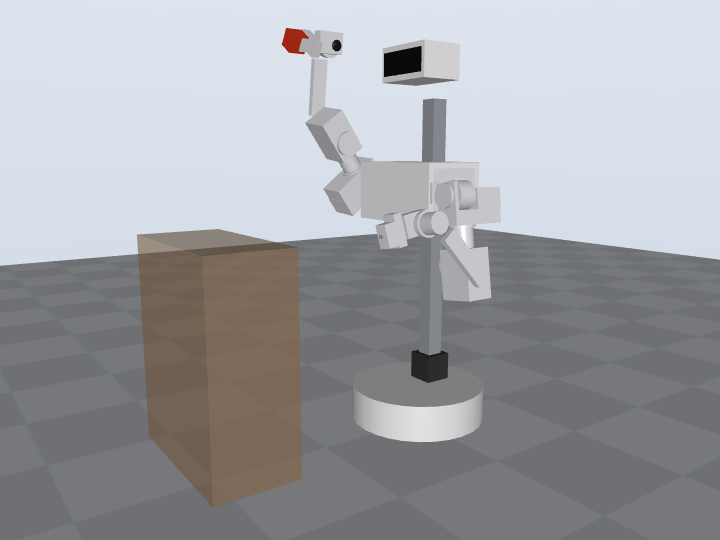
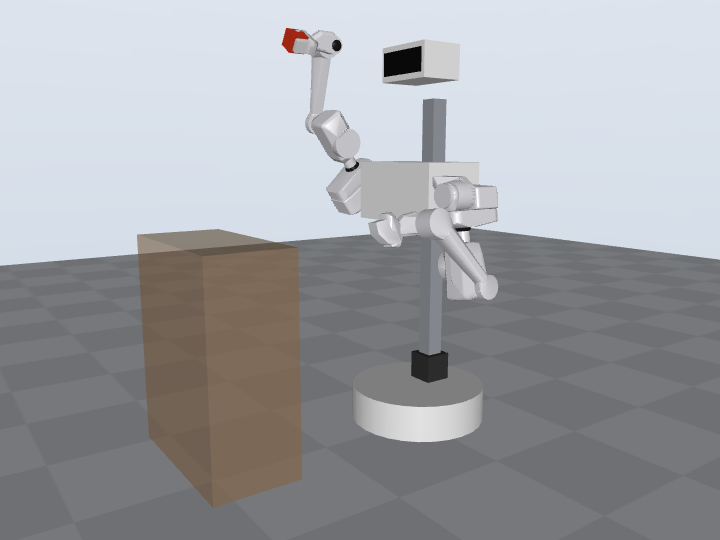
Merge W21b (skirt pins, CAD collision hulls, stow 553 mm); BOM TPU line; log
Claude-Session: https://claude.ai/code/session_01RwSoTh3JZTTiPE9Ryxfm6D

diff --git a/rnd/bom.py b/rnd/bom.py
@@ -102,7 +102,7 @@ def items(d=BASELINE, timer=None):
     A("Compute & sensors", "IMU (BNO085) + optical-flow (PAA5100JE)", 1, 55.0, "components.yaml (flow)")
     A("Compute & sensors", "Mic array + speaker + chest/bumper LEDs (eyes are now drawn on the D11 screen)", 1, 36.0, "ESTIMATE")
     A("Compute & sensors", "D22 face screen: Waveshare ESP32-P4-WIFI6-Touch-LCD-7B (7\" 1024×600 cap. touch, CAN + RS485) + 24→5 V 2 A buck", 1, 46.99 + 6.0, "waveshare.com SKU 32510 (2026-11-27)")
-    A("Drive & structure", f"D23 consumer covers: TPU 95A gaiters/bumper skins (1 kg, incl. the D31 shoulder wedge skirts ≈ 62 g, attachment TBD) + fasteners; the rigid PETG covers ({COVERS_KG} kg, covers.printed()) are in the PETG bundles below", 1, 30.0,
+    A("Drive & structure", f"D23 consumer covers: TPU 95A gaiters/bumper skins (1 kg, incl. the D31 shoulder wedge skirts ≈ 62 g, each held by 12 integral TPU push-in pins through Ø3.2 holes in the PETG hood, no extra parts) + fasteners; the rigid PETG covers ({COVERS_KG} kg, covers.printed()) are in the PETG bundles below", 1, 30.0,
       "ESTIMATE (TPU 95A ≈ $20–25 / kg)")
     A("Bearings", "6808-2RS (40×52×7), no-name 10-pack (check the 2RS variant): 2 per wheel + 2 per arm belt stage", 8 + 2 * ns, 2.02, "AliExpress MOCHU snapshot (loop 14); Zoro generic $4.71")
     A("Bearings", "61804-2RS (20×32×7): D16 wrist-roll spindles, 2 per hand (the lift's small hub pair went with the lift's D26 direct stage, W12)", 4, 0.92, "AliExpress MOCHU snapshot; Zoro $4.69")

diff --git a/docs/rnd/spring.md b/docs/rnd/spring.md
@@ -2,7 +2,7 @@
 
 6000 random right-arm poses across the full joint ranges (MuJoCo twin, static). A pitch-only balancer τ = K·sin(pitch) (zero-free-length spring + cable: Anglepoise / Herder gravity balancing) is fitted to the arm's own weight.
 
-**Design K = 4.50 N·m** (spring torque at the horizontal arm; `params.arm.spring_k_nm`). A least-squares fit to the bare arm gives 4.68 N·m; a K sweep showed 4.0 minimises the 95th-percentile motor torque for a 0.5 kg typical payload (0.5 kg: 5.2 N·m; 1 kg: 7.3 N·m). The spring preload is screw-adjustable (Anglepoise precedent), so K can be re-tuned per task.
+**Design K = 4.50 N·m** (spring torque at the horizontal arm; `params.arm.spring_k_nm`). A least-squares fit to the bare arm gives 4.69 N·m; a K sweep showed 4.0 minimises the 95th-percentile motor torque for a 0.5 kg typical payload (0.5 kg: 5.2 N·m; 1 kg: 7.3 N·m). The spring preload is screw-adjustable (Anglepoise precedent), so K can be re-tuned per task.
 
 | Motor torque needed at the pitch joint | 95th percentile | Worst pose |
 |---|---|---|
@@ -12,7 +12,7 @@
 | Joint capacity (GIM6010-8 × 3.0 belt), rated / peak | 14.2 | 31.3 |
 
 The spring cancels **40%** of the arm's self-weight torque at the 95th percentile (arm_sizing assumed 85 % everywhere).
-Margin with payload: rated / 95th pct **1.59×**, peak / worst pose **2.53×**.
+Margin with payload: rated / 95th pct **1.58×**, peak / worst pose **2.53×**.
 
 ## Every arm joint over the whole workspace (1 kg payload, static, balancer on)
 
@@ -20,10 +20,10 @@ The planar check in [arm sizing](arm_sizing.md) only looks at a straight horizon
 
 | Joint | Actuator × ratio | Need: 95th pct / worst (N·m) | Rated / peak | Margin rated/p95 | Margin peak/worst |
 |---|---|---|---|---|---|
-| shoulder_pitch | GIM6010-8 × 3 | 8.9 / 12.3 | 14.2 / 31.3 | 1.61 | 2.55 ✅ |
+| shoulder_pitch | GIM6010-8 × 3 | 8.9 / 12.3 | 14.2 / 31.3 | 1.60 | 2.55 ✅ |
 | shoulder_roll | GIM8108-36 × 1 | 13.2 / 17.0 | 35.1 / 102.9 | 2.66 | 6.06 ✅ |
-| upper_yaw | GIM6010-8 × 2 | 5.2 / 6.9 | 9.5 / 20.9 | 1.82 | 3.01 ✅ |
-| elbow | GIM6010-8 × 2 | 6.1 / 6.9 | 9.5 / 20.9 | 1.55 | 3.01 ✅ |
-| wrist_pitch | DM-J4310-2EC_V1.1 × 1 | 1.8 / 1.9 | 3.0 / 7.0 | 1.70 | 3.77 ✅ |
+| upper_yaw | GIM6010-8 × 2 | 5.2 / 6.9 | 9.5 / 20.9 | 1.81 | 3.01 ✅ |
+| elbow | GIM6010-8 × 2 | 6.1 / 7.0 | 9.5 / 20.9 | 1.55 | 3.01 ✅ |
+| wrist_pitch | DM-J4310-2EC_V1.1 × 1 | 1.8 / 1.9 | 3.0 / 7.0 | 1.70 | 3.76 ✅ |
 
 **Loop 5 change:** upper-arm yaw DM-J4310 direct (rated/p95 0.65×, ❌) → **GIM6010-8 × 2 belt**. It's cheaper (~$70 per arm), backdrivable, the same part as the other big joints, and adds +0.29 kg per arm. Considered: DM-J4340P direct (1.96×, +70 g, +$29, but 40:1 gearing is barely backdrivable).

diff --git a/docs/rnd/SCORECARD.md b/docs/rnd/SCORECARD.md
@@ -34,7 +34,7 @@
 | R4 15 mm threshold: peak torque margin (transient < 1 s) | 1.6× (6.8 of 11 N·m peak) | ≥ 1.5× | ✅ |
 | R10 first-build hands-on time (estimate, BUILD_v4.md): tracked, no hard target (owner 2026-11-26); lower is a priority | 24 h | minimise | — |
 | R8 cost from the itemised BOM (BOM_v4.md) | $6,543 | ≤ $5,500 limit (owner 2026-11-27; aim $4,000) | ❌ |
-| R13 printed pieces that fit the P2S (256 mm) | 97/97 | all | ✅ |
+| R13 printed pieces that fit the P2S (256 mm) | 98/98 | all | ✅ |
 | R13 cross-module clashes > 1 cm³ (3 lift heights) | 0 | 0 | ✅ |
 | Twin v1: drive + pick from floor + place on table (dynamic, real actuator limits) | success | success | ✅ |
 | Twin v1: robustness (±15 mm perception error, 0.2–0.6 kg) | 8/8 | all | ✅ |
@@ -44,7 +44,7 @@
 | R4 sim: carpet cruise wheel torque (RMS / rated) | 2.2 / 5 N·m | ≤ 70 % | ✅ |
 | R4 15 mm threshold with the A10 v2 mass (rnd/threshold.py roller model re-run by rnd/tip.py, 45°): peak margin at 0.15 m/s (D2b) / 0.12 m/s (SW-T4) | 1.70× / 1.70× (33.9 kg) | ≥ 1.5× at the planner's crossing speed | ✅ |
 | A10 snag at the locked cap (rnd/tip.py W17: a locked caster meets a step edge; every carry state incl. the R2d basket in its real poses; energy ≤ 25 % of the tip energy, force ≤ ½ rod yield) | 23/23 at each payload's SW-T8 cap (basket at 0.15 m/s: 16 % / 252 N, allowed 0.19 m/s); SW-T8 locked cap by payload (≤ 6 kg 0.20; 6–10 kg 0.15 m/s) in sw/safety.py pass | every state at the cap sw/safety.py enforces | ✅ |
-| R5 door stow (rnd/stow.py): whole-robot width across a 45° threshold crossing (D2b), both arms stowed, collision-free, cross-body gaps ≥ 25 mm, valid with people near (roll ≥ +8°) | 560 mm (clear 650 − 2 × 40), tip ≥ 78 mm | ≤ 570 mm, tip ≥ 30 mm | ✅ |
+| R5 door stow (rnd/stow.py): whole-robot width across a 45° threshold crossing (D2b), both arms stowed, collision-free, cross-body gaps ≥ 25 mm, valid with people near (roll ≥ +8°) | 553 mm (clear 650 − 2 × 40), tip ≥ 81 mm | ≤ 570 mm, tip ≥ 30 mm | ✅ |
 | Monte Carlo fetch task (derate, mass, friction, μ, calib, can, offset) | 100/100 (95 % LB 96%), tip ≥ 66 mm | LB ≥ 90 %, tip ≥ 30 mm | ✅ |
 | FEA critical printed parts: min margin vs 12 MPa (across layers) | 2.5× (13 cases, max disp 0.40 mm) | ≥ 1.5×, disp < 2 mm | ✅ |
 | Self-docking Monte Carlo (±0.3 m / ±20° start, pose-estimate error, wheel slip) | 100/100 (95 % LB 96%), worst pad error 19 mm | LB ≥ 90 %, within ±25 mm | ✅ |

diff --git a/docs/rnd/BOM_v4.md b/docs/rnd/BOM_v4.md
@@ -178,7 +178,7 @@ Together −$787 → $5,756 (+$256 against the $5,500 limit); the belt-roll row 
 | Compute & sensors | IMU (BNO085) + optical-flow (PAA5100JE) | 1 | 55.00 | 55 | components.yaml (flow) |
 | Compute & sensors | Mic array + speaker + chest/bumper LEDs (eyes are now drawn on the D11 screen) | 1 | 36.00 | 36 | ESTIMATE |
 | Compute & sensors | D22 face screen: Waveshare ESP32-P4-WIFI6-Touch-LCD-7B (7" 1024×600 cap. touch, CAN + RS485) + 24→5 V 2 A buck | 1 | 52.99 | 53 | waveshare.com SKU 32510 (2026-11-27) |
-| Drive & structure | D23 consumer covers: TPU 95A gaiters/bumper skins (1 kg, incl. the D31 shoulder wedge skirts ≈ 62 g, attachment TBD) + fasteners; the rigid PETG covers (1.56 kg, covers.printed()) are in the PETG bundles below | 1 | 30.00 | 30 | ESTIMATE (TPU 95A ≈ $20–25 / kg) |
+| Drive & structure | D23 consumer covers: TPU 95A gaiters/bumper skins (1 kg, incl. the D31 shoulder wedge skirts ≈ 62 g, each held by 12 integral TPU push-in pins through Ø3.2 holes in the PETG hood, no extra parts) + fasteners; the rigid PETG covers (1.56 kg, covers.printed()) are in the PETG bundles below | 1 | 30.00 | 30 | ESTIMATE (TPU 95A ≈ $20–25 / kg) |
 | Bearings | 6808-2RS (40×52×7), no-name 10-pack (check the 2RS variant): 2 per wheel + 2 per arm belt stage | 20 | 2.02 | 40 | AliExpress MOCHU snapshot (loop 14); Zoro generic $4.71 |
 | Bearings | 61804-2RS (20×32×7): D16 wrist-roll spindles, 2 per hand (the lift's small hub pair went with the lift's D26 direct stage, W12) | 4 | 0.92 | 4 | AliExpress MOCHU snapshot; Zoro $4.69 |
 | Bearings | 6001-2RS (12×28×8): D26 direct stages, the drive stub's far end in wall B's bonded bushing (6 arm belt stages) | 6 | 3.45 | 21 | eBay VXB 10 × 6001 (12×28×8) $34.49 pro rata (2026-11-27 search snapshot; RS PRO 6001-2RS 10-pack £19.53 ex VAT, Zoro Alto $6.89 each) |

diff --git a/docs/RND_LOG.md b/docs/RND_LOG.md
@@ -1510,3 +1510,7 @@ One long push instead of half-hour runs. In order:
 
 ### 2026-11-28 D32: base OFF-delay timer = board timers
 - Owner: "definitely the timers for now". `PIP_BASE_TIMER=board` (two independent board-level timers cross-checked at power-up, ≈ $8, ±20 %, set 2.25 s); the certified Omron G9SA (+$593, 13-week lead) stays switchable. The BOM, M1 kit and readiness text no longer say "pending". Robot total unchanged at $6,543 (board option). D31 skirt-default checks: rnd.bom, basket, test_params and run_all pass; the full pinch run with the skirt default comes with W21b.
+
+### 2026-11-28 W21b merged (skirt attachment, collision hulls, R5 stow)
+- **D31 skirt attachment:** 12 integral TPU push-in pins (Ø3 stem, barbed Ø5.4 head) through Ø3.2 holes in the PETG hood; no extra parts, replaceable from outside with the arm assembled. Heads clear the can by ≥ 2.7 mm. Worst pin load 11.3 N against a 20 N pull-out target (ESTIMATE). There's a ≈ 33 × 50 mm unpinned field where the can sits 3 mm inside the wall: expect a few mm of lift, not detachment. judge_soft_guard still passes; pinch unchanged at 4 / 0. **Coupon queued** (for the coupons owner): 6 pins on a TPU strip into a 2.2 mm PETG plate; push-in ≤ 40 N, pull-out ≥ 20 N each, 5 refits.
+- **Collision hulls** are now convex hulls of today's CAD with covers and skirt (`collision.HULLS`, 6 new slab hulls). **Stow search fixed:** bounded Powell returned a worse point than its own start; the search now keeps the best point. **R5 W(45°) 560 → 553 mm** (≤ 570, gap ≥ 28 mm, tip reserve ≥ 81 mm), valid with rolls held at +8°; W(0°) floor 634 mm (still > 600, as before). BOM: TPU line names the pin attachment ($0).

diff --git a/docs/rnd/twin.md b/docs/rnd/twin.md
@@ -9,7 +9,7 @@ Model generated from `rnd/params.py`: arm 0.3+0.28+0.156 m, wrist ±120°, shoul
 | dishwasher low rack (z 0.20, down) | 95% | X wheel-fwd R.21 (chosen): 101 / 2.8; X edge-fwd R.21: 86 / 2.4; kiwi R.21 (rejected): 69 / 1.9 |
 | table top (z 0.78, down) | 96% | X wheel-fwd R.21 (chosen): 105 / 2.0; X edge-fwd R.21: 93 / 1.8; kiwi R.21 (rejected): 72 / 1.4 |
 | counter top-down only (z 0.95) [info: counters use top-down OR 45°, see D4b] | 71% | X wheel-fwd R.21 (chosen): 105 / 2.0; X edge-fwd R.21: 93 / 1.8; kiwi R.21 (rejected): 72 / 1.4 |
-| shelf (z 1.20, horizontal) | 100% | X wheel-fwd R.21 (chosen): 115 / 2.2; X edge-fwd R.21: 103 / 1.9; kiwi R.21 (rejected): 79 / 1.5 |
+| shelf (z 1.20, horizontal) | 100% | X wheel-fwd R.21 (chosen): 115 / 2.1; X edge-fwd R.21: 103 / 1.9; kiwi R.21 (rejected): 79 / 1.5 |
 | high shelf (z 1.40, horizontal) | 100% | X wheel-fwd R.21 (chosen): 118 / 2.0; X edge-fwd R.21: 111 / 1.9; kiwi R.21 (rejected): 81 / 1.4 |
 
 ## Two-handed tasks (shared lift, both arms, collision-free)
